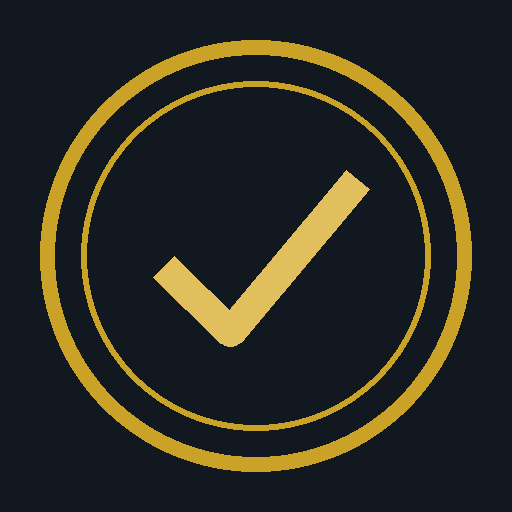
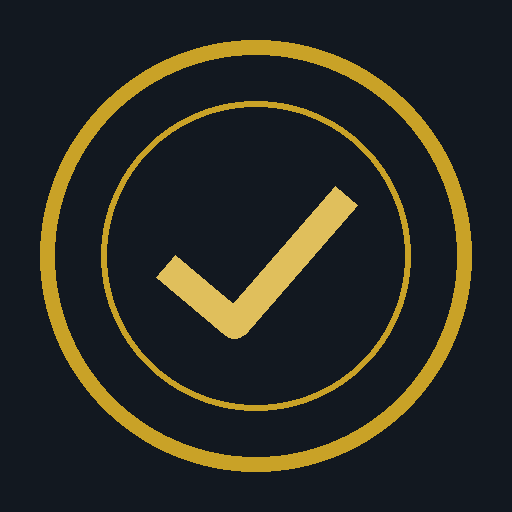
Add files via upload

diff --git a/index.html b/index.html
@@ -6,9 +6,9 @@
 <title>İş Takip — Defter</title>
 <meta name="theme-color" content="#121820">
 <meta name="description" content="Yapılacak işleri hatırlatıcı, puanlama ve tamamlanma analiziyle takip eden kişisel iş defteri.">
-<link rel="manifest" href="./manifest.json">
-<link rel="icon" href="./icons/icon-192.png">
-<link rel="apple-touch-icon" href="./icons/icon-192.png">
+<link rel="manifest" href="manifest.json">
+<link rel="icon" href="icons/icon-192.png">
+<link rel="apple-touch-icon" href="icons/icon-192.png">
 <meta name="apple-mobile-web-app-capable" content="yes">
 <meta name="apple-mobile-web-app-status-bar-style" content="black-translucent">
 <link rel="preconnect" href="https://fonts.googleapis.com">

diff --git a/sw.js b/sw.js
@@ -1,10 +1,18 @@
-const CACHE_NAME = 'is-takip-cache-v1';
+const CACHE_NAME = 'is-takip-cache-v2';
 const ASSETS = [
   './',
   './index.html',
   './manifest.json',
+  './icons/icon-72.png',
+  './icons/icon-96.png',
+  './icons/icon-128.png',
+  './icons/icon-144.png',
+  './icons/icon-152.png',
   './icons/icon-192.png',
-  './icons/icon-512.png'
+  './icons/icon-384.png',
+  './icons/icon-512.png',
+  './icons/icon-maskable-192.png',
+  './icons/icon-maskable-512.png'
 ];
 
 self.addEventListener('install', (event) => {
